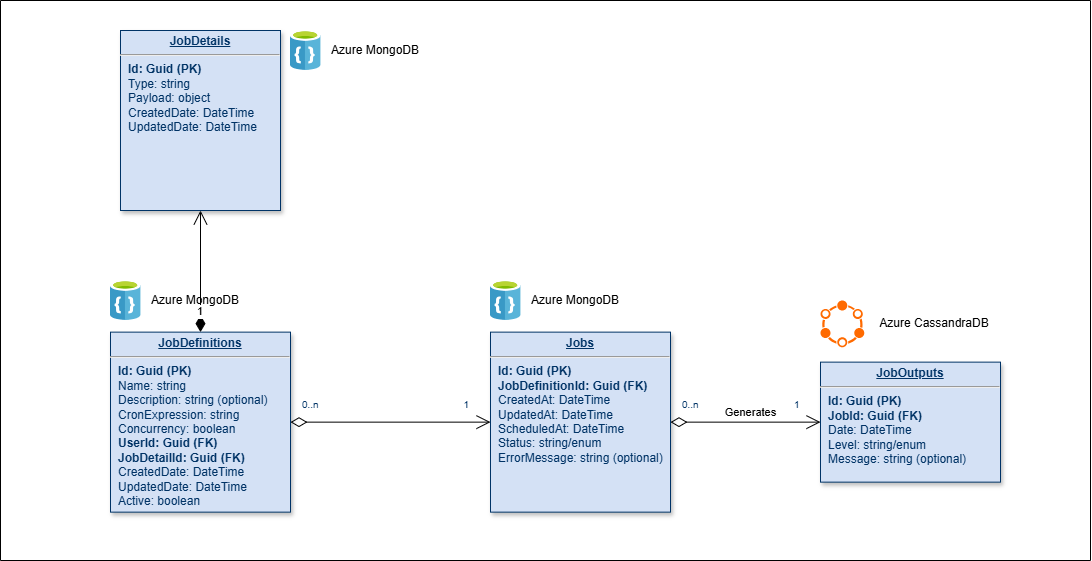
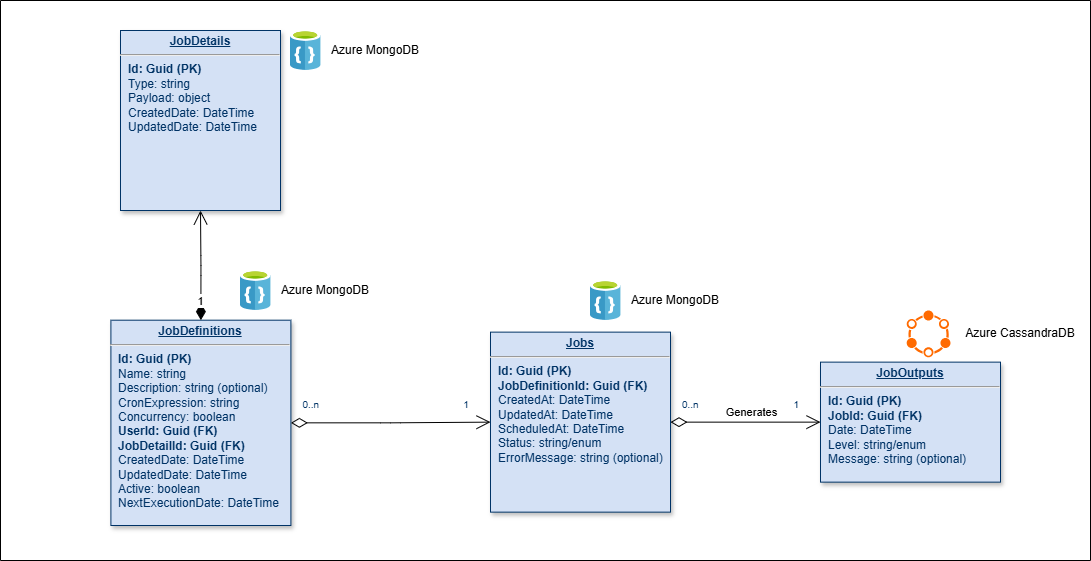
feat: create UC1.1 replication strategy decision

diff --git a/5_data_replication/UC_1_1_Create_new_Job.md b/5_data_replication/UC_1_1_Create_new_Job.md
@@ -1,0 +1,109 @@
+# Distributed Data Replication Module
+
+## Task 1. Replication Strategy Decisions
+
+Technical Requirements Overview:
+
+- Handle thousands of concurrent jobs and users
+
+### UC 1.1: Create a New Job
+
+#### System Component Requirements
+
+Affected models:
+
+##### JobDefinitions
+
+- Id: Guid (36 bytes)
+- Name: string (128 bytes)
+- Description: string (256 bytes)
+- CronExpression: string (256 bytes)
+- Concurrency: boolean (1 byte)
+- UserId: Guid (36 bytes)
+- JobDetailId: Guid (36 bytes)
+- CreatedDate: DateTime (8 bytes)
+- UpdatedDate: DateTime (8 bytes)
+- Active: boolean (1 byte)
+- NextExecutionDate: DateTime (8 bytes)
+
+Max size of JobDefinition: 771 bytes.
+
+##### JobDetails
+
+- Id: Guid (36 bytes)
+- Type: string (1–32 bytes)
+- Payload: string (0–1023 bytes)
+- CreatedDate: DateTime (8 bytes)
+- UpdatedDate: DateTime (8 bytes)
+
+> Note: Payload may contain different data in different formats for each job. Its max size is assumed to be 1023 bytes.
+
+Max size of JobDetail: 1107 bytes.
+
+---
+
+**1. Formulate system component requirements:**
+
+- **Expected data volume** (number of records, data size in GB)
+  - 1 million records
+  - Raw Data size: (771 + 1107 bytes) \* 1_000_000 = ~1.7 GB
+  - MongoDB overhead + indexes: ~0.6 GB
+  - Oplog for replication: ~1 GB
+  - Total size: ~3.3 GB
+
+- **Expected load** (read/write requests per second)
+  Assuming 5% of the jobs are modified/created throughout the day:
+  - Number of modified jobs: 1_000_000 \* 0.05 = 50_000 jobs.
+  - Seconds per day = 86_400
+
+  - Number of job requests per second: ~1
+
+- **Consistency requirements** (strong or eventual consistency)
+  - Strong consistency with the replica.
+
+- **Availability requirements** (uptime expectations, acceptable downtime)
+  - Azure DocumentDB SLA: 99.995%
+
+- **Geographic distribution** (single region or multi-region deployment)
+  - Multi-region deployment with the primary instance in one region and a read replica in another, allowing failover to the read replica if the primary fails.
+
+---
+
+**2. Select the most suitable database and justify your choice:**
+
+- **Which database type is most appropriate: SQL or NoSQL?**
+
+  NoSQL — specifically **Azure DocumentDB** (vCore-based, MongoDB-compatible) for its scalability and consistency guarantees.
+
+- **What are the advantages and disadvantages of the selected database given these requirements?**
+
+  **Advantages:**
+  - The dynamic `Payload` field per job type is a natural fit for a document model — no schema migrations when new job types are introduced.
+  - Full MongoDB compatibility means standard drivers, query operators, and transactions work without emulation quirks.
+  - vCore/compute-based pricing is predictable and avoids the RU capacity-planning complexity of Cosmos DB.
+  - The model involves only two entities (`JobDetails` and `JobDefinitions`), which are cleanly handled by the built-in multi-document transaction support.
+
+  **Disadvantages:**
+  - Multi-region replication capabilities are more limited compared to Azure Cosmos DB's instant global distribution.
+  - Does not offer the sub-10ms latency guarantees of Cosmos DB's native engine for globally distributed reads.
+
+- **Deployment approach: self-hosted or cloud service?**
+
+  Cloud service (Azure DocumentDB managed offering), to support geo-distribution, failovers, replication, and managed backups without operational overhead.
+
+---
+
+**3. Design the replication strategy for the selected database:**
+
+- **Justify why replication is required for this system component.**
+
+  Job information is the core of the entire Scheduler. An issue with the primary server would not only prevent users from managing jobs, but would also stop the Scheduler and job execution entirely. Replication in another region significantly improves the resilience of the service.
+
+- **Describe the replication strategy:**
+  - _For cloud service databases:_ Identify the default replication strategy and how you will configure it.
+  - _For self-hosted databases:_ Specify which replication strategy you will implement (leader-follower, multi-leader, or leaderless).
+
+  In Azure DocumentDB, a secondary replica is configured in another region. It supports read operations and can be promoted to become the new primary during a failover.
+
+- **Define the replication configuration parameters** (number of replicas, synchronous/asynchronous mode, quorum settings if applicable)
+  - 1 replica, asynchronous mode.
